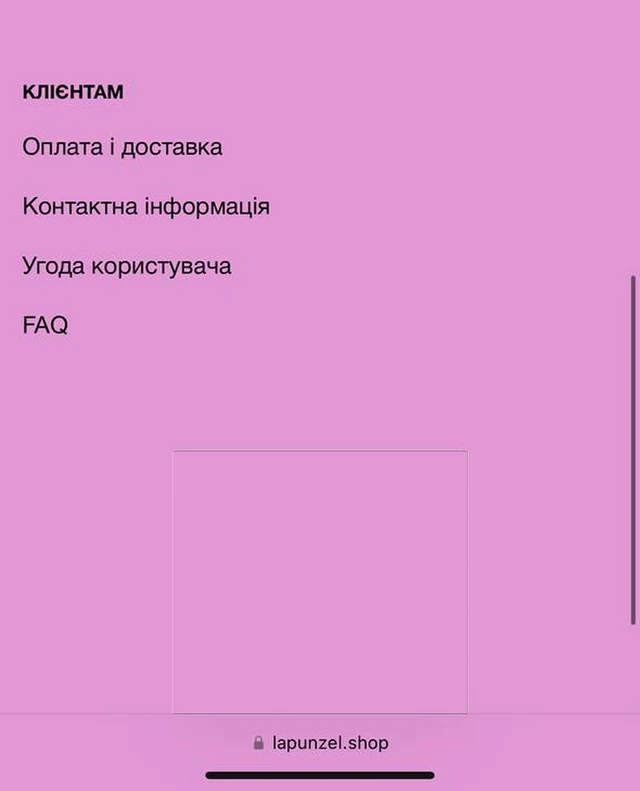
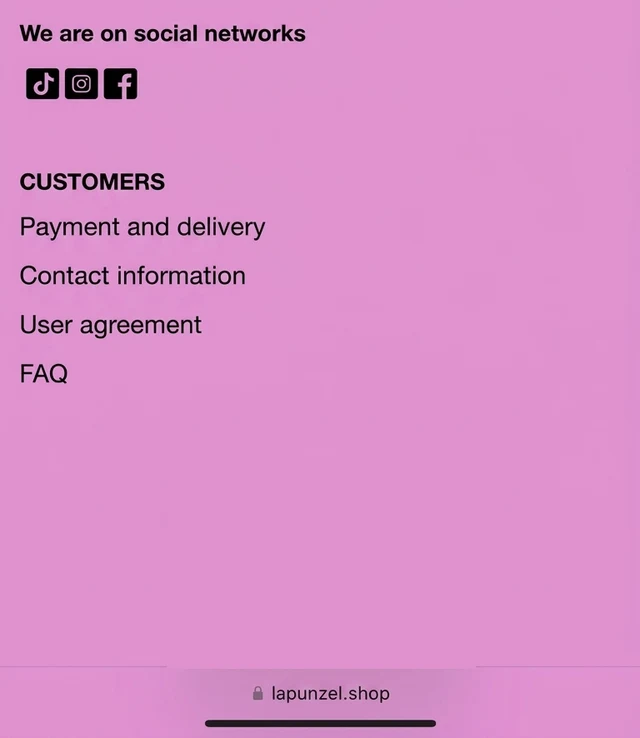
Lapunzel Client ask: English screenshots, neutral framing of the owner's beliefs
Claude-Session: https://claude.ai/code/session_01UyFrCoty7Hkm3P6xPrA1o8

diff --git a/src/data/cases.ts b/src/data/cases.ts
@@ -402,13 +402,13 @@ const lapunzel: Partial<CaseData> = {
         { src: '/images/lap-tldr-after.webp', label: 'After', icon: 'sparkles' },
       ], alt: 'The product page before and after the redesign: a long description with collapsed sections, then stock status above the price and delivery, payment and reviews in accordions.' }] } },
 
-    { id: 'client', nav: 'Client ask', title: ['The owner had a theory.', 'I wanted proof'],
-      lede: 'She believed shoppers were wary of the site, and that vegan cosmetics weren’t getting credit for their higher price. Both were plausible, and neither was tested.\nI started with what we could check ourselves: a heuristic review of the old site. It turned up 35 issues, and three of them shaped the redesign.',
-      blocks: [{ type: 'pull', text: 'So before anyone opened Figma, I proposed we test the rest.' }],
-      visual: { layout: 'single', items: [{ label: 'Three issues from the heuristic review', spec: '', alt: 'Three issues from the heuristic review of the old site: filters open categories (catastrophe, 4 of 4), delivery information only in the footer (minor, 2 of 4), and no average rating on reviews (minor, 2 of 4). Screenshots are of the old site in its original Ukrainian.', finds: [
-        { icon: 'layout-grid', cat: 'Consistency and standards', level: 'catastrophe', score: '4 of 4', title: 'Filters open categories', text: 'Tapping Filters opened the category list instead of filters.', src: '/images/lap-find-menu.webp', pos: '50% 0%', alt: 'Old mobile site: the category list that opens from Filters (in Ukrainian)' },
-        { icon: 'help-circle', cat: 'Help and documentation', level: 'minor', score: '2 of 4', title: 'Delivery info only in the footer', text: 'Nothing about delivery or payment on the product page. Shoppers had to look for it in the footer.', src: '/images/lap-find-footer.webp', pos: '50% 0%', alt: 'Old site footer, For customers: payment and delivery, contacts, user agreement, FAQ (in Ukrainian)' },
-        { icon: 'eye', cat: 'System status visibility', level: 'minor', score: '2 of 4', title: 'No average rating', text: 'Reviews had stars, but the product never showed an overall rating.', src: '/images/lap-find-review.webp', pos: '50% 0%', alt: 'Old product page: a single five-star review (in Ukrainian)' },
+    { id: 'client', nav: 'Client ask', title: ['Two beliefs', 'worth testing'],
+      lede: 'She believed shoppers were wary of the site, and that vegan cosmetics weren’t getting credit for their higher price. Both were plausible, and we hadn’t checked either yet.\nI started with what we could check ourselves: a heuristic review of the old site. It turned up 35 issues, and three of them shaped the redesign.',
+      blocks: [{ type: 'pull', text: 'I proposed we test both before anyone opened Figma.' }],
+      visual: { layout: 'single', items: [{ label: 'Three issues from the heuristic review', spec: '', alt: 'Three issues from the heuristic review of the old site: filters open categories (catastrophe, 4 of 4), delivery information only in the footer (minor, 2 of 4), and no average rating on reviews (minor, 2 of 4).', finds: [
+        { icon: 'layout-grid', cat: 'Consistency and standards', level: 'catastrophe', score: '4 of 4', title: 'Filters open categories', text: 'Tapping Filters opened the category list instead of filters.', src: '/images/lap-find-menu.webp', pos: '50% 0%', alt: 'Old mobile site: the category list that opens from Filters (wool, paws, scent, eyes, sets, blog, FAQ)' },
+        { icon: 'help-circle', cat: 'Help and documentation', level: 'minor', score: '2 of 4', title: 'Delivery info only in the footer', text: 'Nothing about delivery or payment on the product page. Shoppers had to look for it in the footer.', src: '/images/lap-find-footer.webp', pos: '50% 0%', alt: 'Old site footer, Customers: payment and delivery, contacts, user agreement, FAQ' },
+        { icon: 'eye', cat: 'System status visibility', level: 'minor', score: '2 of 4', title: 'No average rating', text: 'Reviews had stars, but the product never showed an overall rating.', src: '/images/lap-find-review.webp', pos: '50% 0%', alt: 'Old product page: a single five-star review' },
       ] }] } },
 
     { id: 'team', nav: 'Collaboration', title: ['A new team,', 'and a project to run'],

diff --git a/src/styles/case.css b/src/styles/case.css
@@ -1196,7 +1196,7 @@ html:has(.cp-story.brand), body:has(.cp-story.brand) { background: #0b0b0a; }
 .fd-c h3 { margin: 4px 0 0; font-size: clamp(17px, 1.6vw, 22px); font-weight: 700; letter-spacing: -.03em; line-height: 1.15; color: var(--ink); }
 .fd-d { margin: 0; max-width: none; font-size: clamp(13px, 1vw, 14.5px); line-height: 1.45; letter-spacing: -.01em; color: var(--muted); }
 .fd-i { border-radius: 12px; background: #f6f6f4; overflow: hidden; min-height: 0; display: flex; justify-content: center; align-items: flex-start; padding-top: 14px; }
-.fd-i img { width: 88%; max-width: 200px; height: auto; display: block; border-radius: 18px 18px 0 0; box-shadow: 0 0 0 4px #fff, 0 6px 20px rgba(17,17,17,.12); }
+.fd-i img { width: 94%; max-width: 210px; height: auto; display: block; border-radius: 18px 18px 0 0; box-shadow: 0 0 0 4px #fff, 0 6px 20px rgba(17,17,17,.12); }
 @media (hover: hover) and (pointer: fine) and (prefers-reduced-motion: no-preference) {
   .fd-c { transition: transform .5s var(--out), box-shadow .5s var(--out); }
   .fd-c:hover { transform: translateY(-3px); box-shadow: 0 1px 3px rgba(17,17,17,.06), 0 10px 24px rgba(17,17,17,.10); }
